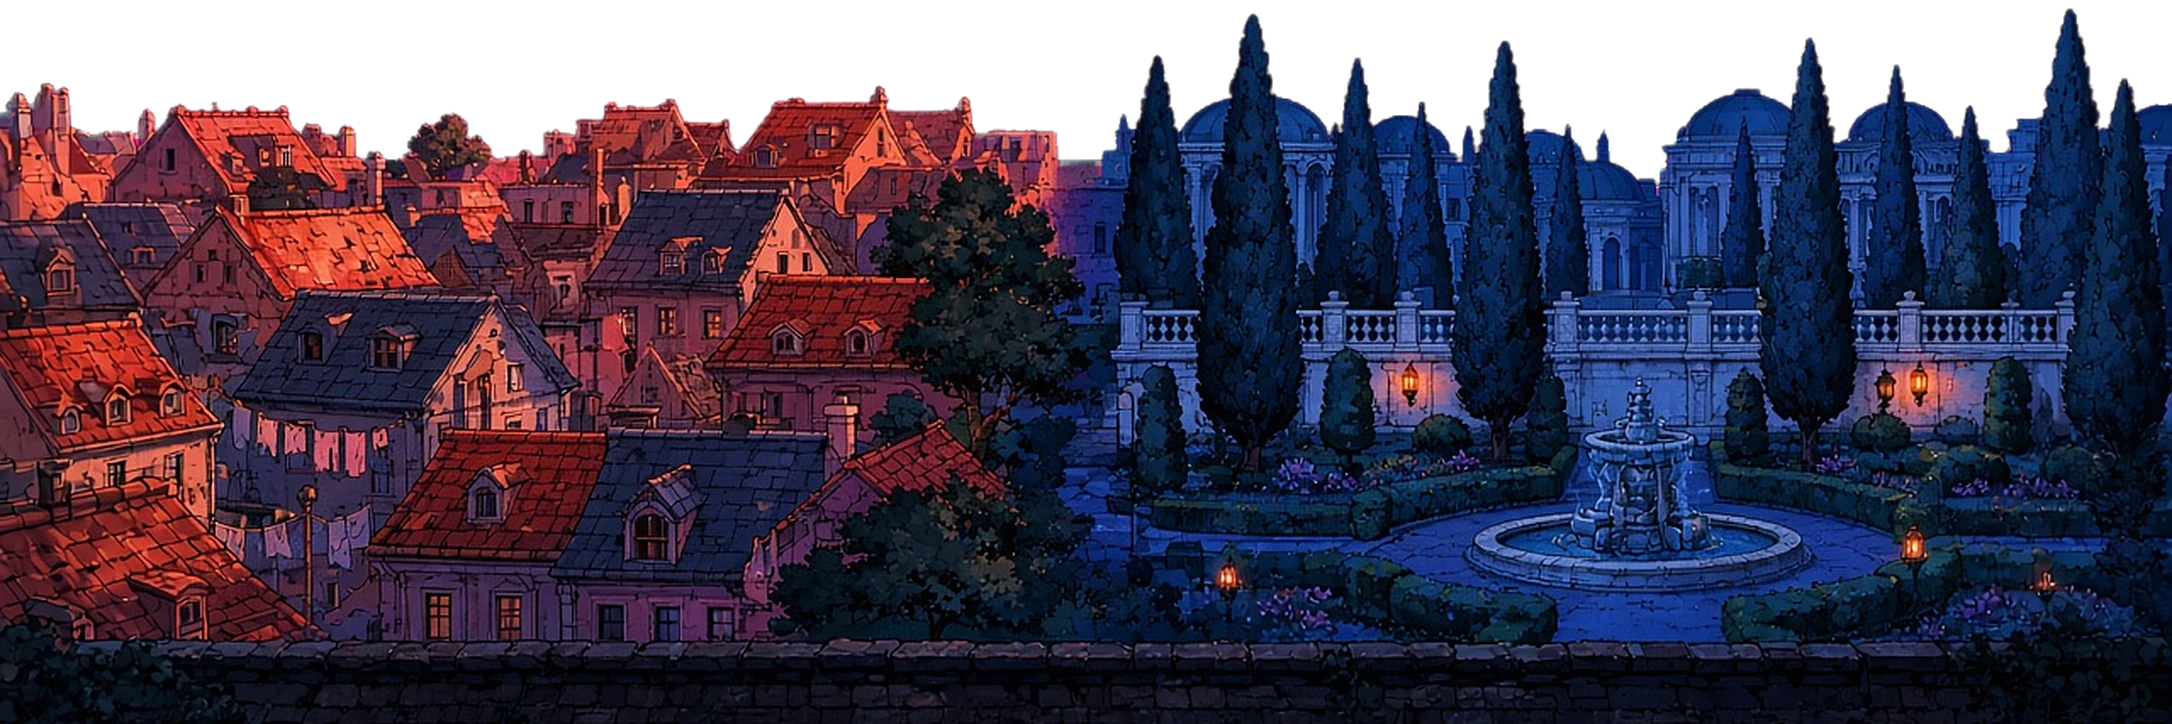
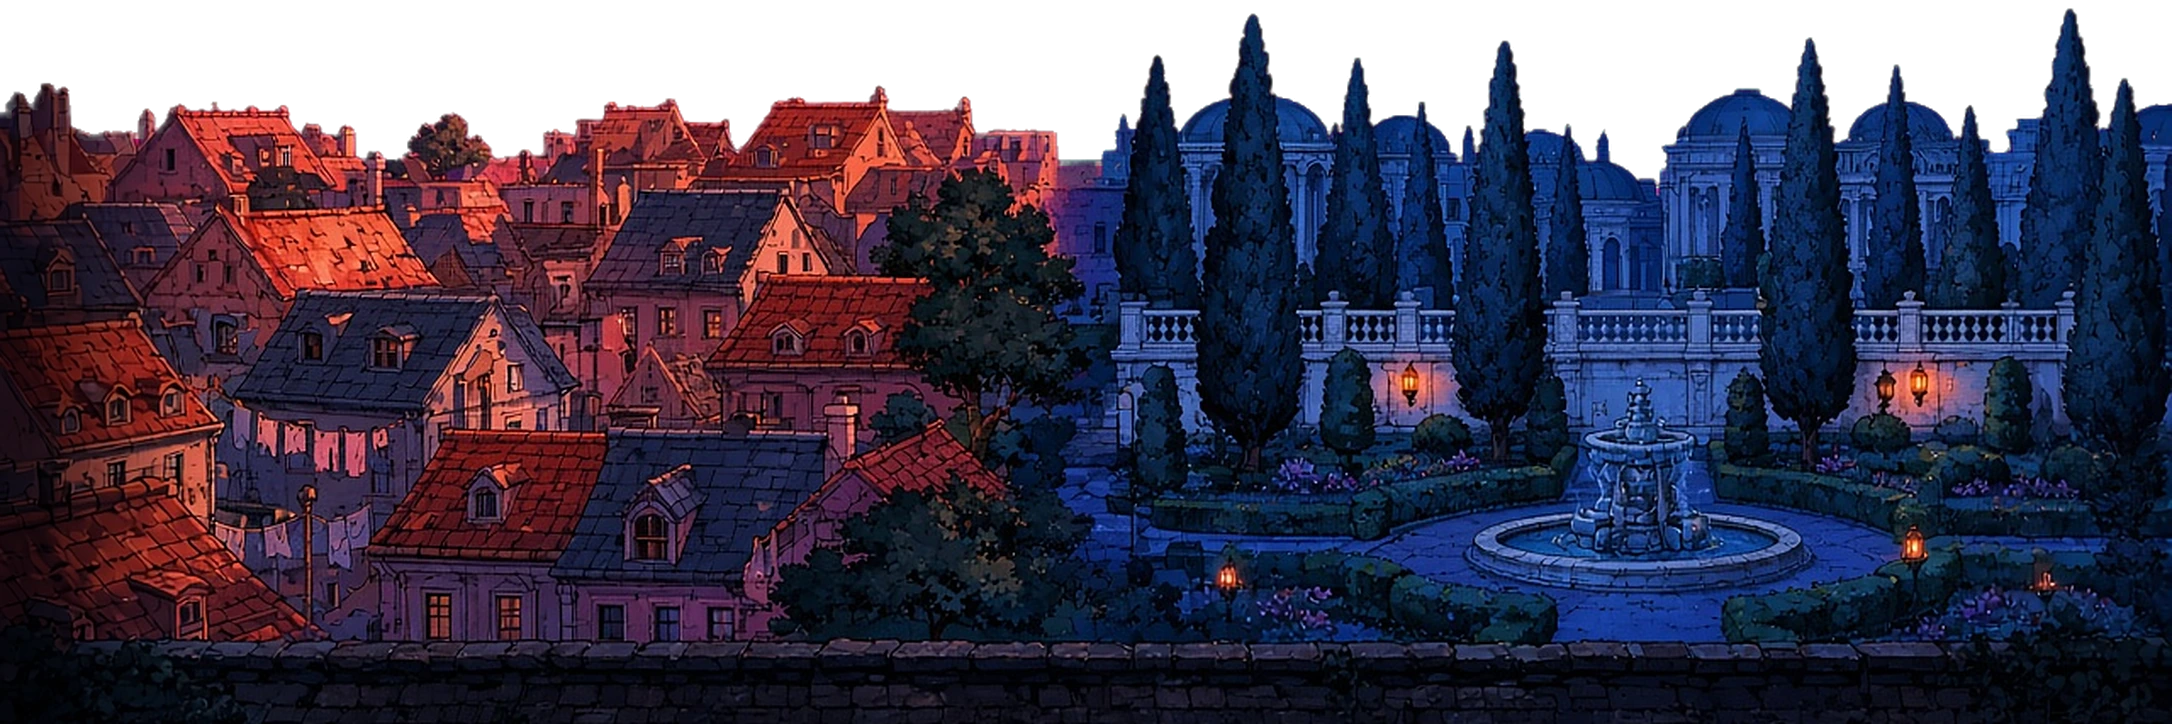
Approve the Stage 3 plates, soften floor and mid hand-offs, put torches on the painted lanterns.
- ART_STATUS: the 7 bg3 entries are real (source grokbot-image, approved by Jason,
  contact sheet, provenance). stage3-assets allows that source only for those ids.
  Prompt JSONs record tries 1; plates.json placeholder false.
- stage3.js: floor segments cross-fade over 280 px with corner alphas instead of
  a hard-edged 200 px strip at 0.5 alpha.
- bg3-mid2: left 240 px ease into a cool shadow so the cut from mid3a reads as a gap.
- lights.json: inn door lanterns, rooftop street lamp and garden lanterns.

Changed region(s): [[0.0, 0.1215, 0.0925, 0.9116], [0.0, 0.9116, 0.0308, 0.942]]

diff --git a/src/stage3.js b/src/stage3.js
@@ -114,7 +114,7 @@ export class Stage3Kit extends Stage3Hazards {
     floors.forEach(({ key, from, to }, i) => {
       const ts = fh / s.textures.get(key).getSourceImage().height;
       s.backdropLit.push(s.add.tileSprite(from, fy, to - from + (i < last ? 200 : 0), fh, key).setOrigin(0, 0).setLighting(true).setTileScale(ts).setDepth(-40 + i));
-      if (i > 0) s.backdropLit.push(s.add.tileSprite(from - 200, fy, 200, fh, key).setOrigin(0, 0).setLighting(true).setTileScale(ts).setTilePosition(-200 / ts, 0).setDepth(-40 + i).setAlpha(0.5));
+      if (i > 0) s.backdropLit.push(s.add.tileSprite(from - 280, fy, 280, fh, key).setOrigin(0, 0).setLighting(true).setTileScale(ts).setTilePosition(-280 / ts, 0).setDepth(-40 + i).setAlpha(0, 1, 0, 1));
     });
     // lights: torches are latched spots (no light until lit); the sun is world-space like the moon
     s.moon = null; s.fires = []; this.halos = [];

diff --git a/tools/stage3/process_bg3_plates.py b/tools/stage3/process_bg3_plates.py
@@ -8,6 +8,7 @@ art-in/bg3/ (file name = <plate>.src.jpg; the original sha256 is recorded in ART
   mid  (mid3a, mid3b): 3:1 band with the street / parapet on the bottom edge, flat magenta sky keyed to real
        alpha (big connected key regions only, soft alpha on a 4 px edge band, colour unmix + despill),
        premultiplied Lanczos to 2172x724 (plateScale and the torch coordinates in lights.json assume 2172).
+       mid3b's left 240 px sink into a cool shadow (smoothstep, opaque) so the mid3a -> mid3b cut reads as a gap.
   floor (floor3a/b/c): horizontal light flattening, floor3a's vertical gutter cut out with a min-error seam,
        horizontal wrap made seamless with a min-error seam + tone ramp, then a periodic Lanczos resample
        to 1080x360.
@@ -86,6 +87,17 @@ def key_mid(k, top, bottom):
     mask = (alpha <= 0).astype(np.uint8)
     rgb = cv2.inpaint(rgb, mask, 3, cv2.INPAINT_TELEA) if mask.any() else rgb
     return rgb.astype(np.float32), alpha
+
+def shade_left(im, width=240, floor=(0.30, 0.27, 0.36)):
+    """ease the mid3a -> mid3b cut: the plate's left edge sinks into a cool dusk shadow (smoothstep over `width`
+    px, still opaque) so the seam reads as a shadowed gap between the inn and the rooftops. A pure alpha feather
+    showed the busy far plate through translucent roofs (double exposure)."""
+    a = np.asarray(im).astype(np.float32)
+    t = np.clip(np.arange(width) / (width - 1), 0, 1)
+    ramp = (t * t * (3 - 2 * t))[None, :, None]
+    k = np.array(floor, np.float32)[None, None, :]
+    a[:, :width, :3] *= k + (1 - k) * ramp
+    return Image.fromarray(np.clip(a + 0.5, 0, 255).astype(np.uint8), 'RGBA')
 
 def mid(k, top, bottom):
     rgb, alpha = key_mid(k, top, bottom)
@@ -236,7 +248,7 @@ if __name__ == '__main__':
     log['bg3-far-day.jpg'] = encode(far('bg3-far-day'), 'bg3-far-day.jpg')
     log['bg3-far-night.jpg'] = encode(far('bg3-far-night'), 'bg3-far-night.jpg')
     log['bg3-mid.webp'] = encode(mid('bg3-mid', 277, 704), 'bg3-mid.webp')       # magenta strip below row 704
-    log['bg3-mid2.webp'] = encode(mid('bg3-mid2', 276, 703), 'bg3-mid2.webp')
+    log['bg3-mid2.webp'] = encode(shade_left(mid('bg3-mid2', 276, 703)), 'bg3-mid2.webp')   # follows mid3a
     im, info = floor('bg3-floor', gutter=(610, 670))                              # gutter at x ~615..668
     log['bg3-floor.jpg'] = {**encode(im, 'bg3-floor.jpg'), **info}
     im, info = floor('bg3-floor2', rows='middle')

diff --git a/docs/stage3/ART-NEEDED.md b/docs/stage3/ART-NEEDED.md
@@ -30,4 +30,11 @@ All seven plates are now painted, cel-style backgrounds (Grok Bot image generati
 
 The far and floor plates are below 2172×724 on purpose. `tests/stage3-memory.test.mjs` caps the Stage 3 resident RGBA estimate at 110 MB, and seven full-size plates would come to about 131 MB. `farImg` sizes the far plate from the texture, and the floor tile scale is `fh / height`, so the on-screen layout is unchanged. The mid plates stay at 2172×724 because `plateScale` and the torch coordinates in `lights.json` assume that width. `tools/stage3/art-manifest.json` records the shipped sizes, and its `normalSize` field records the untouched 1086×362 flat normal cards.
 
-`placeholder` stays `true` in `ART_STATUS.json` for these seven entries. PLAN §Conventions 5 and `tests/stage3-assets.test.mjs` only accept `chatgpt` or `gemini` as the source of a real still, and they reject Grok. Each entry's `art` block carries the provenance: generator, date, source path and sha256, the post-process, and the contact sheet `docs/stage3/shots/contact-bg3-plates.jpg`. Flipping the flag needs Jason's decision on that rule.
+**Approved 2026-10-07.** Jason approved these seven stills, so their `ART_STATUS.json` entries are `placeholder: false` with `source: "grokbot-image"`, `contactSheet`, and an `art` provenance block (`approvedBy`, source sha256, post-process). `tests/stage3-assets.test.mjs` allows that source only for these seven ids (`APPROVED_STILLS`). The prompt JSONs record `tries: 1` and `generatedWith`. `assets/bg3/plates.json` now carries `placeholder: false`.
+
+The in-game `PLACEHOLDER ART` tag still shows in Stage 3, because `placeholderArt` (`src/hud.js`) also counts the character sheets. `cutthroat`, `fade` and `riley3` are still `placeholder: true` in their `anims.json`.
+
+Follow-ups in the same PR:
+- **Floor hand-offs** (world x 2540 and 3880): the next floor now fades in over 280 px with corner alphas `setAlpha(0, 1, 0, 1)`. It used to be a 200 px strip at 0.5 alpha.
+- **mid3a → mid3b cut:** mid3b's left 240 px ease into a cool shadow. A pure alpha feather showed the far plate through translucent roofs.
+- **Torches** (`lights.json`): they now sit on the painted lanterns. On mid3a that is the inn door pair at (1615,424) and (1835,422). On mid3b it is the rooftop street lamp (308,493) and the garden lanterns (1228,577), (1410,384), (1908,387) for the pair, (1914,547) and (2045,580).
